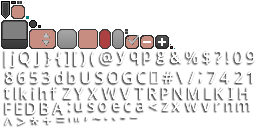
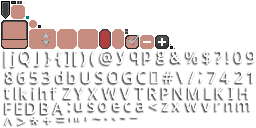
Added some textures, snake nest, minor bug fixes

diff --git a/src/main/java/pl/ue/oops/game/universe/level/LevelGenerator.java b/src/main/java/pl/ue/oops/game/universe/level/LevelGenerator.java
@@ -6,12 +6,12 @@ import pl.ue.oops.game.universe.entities.general.ActiveGridEntity;
 import pl.ue.oops.game.universe.utils.AdjacencyRules;
 import pl.ue.oops.game.universe.utils.GeneratorEntity;
 import pl.ue.oops.game.universe.utils.GridPosition;
+import pl.ue.oops.game.universe.utils.statistics.Statistics;
 
 import java.util.*;
 
 public class LevelGenerator {
     private static List<GeneratorEntity> possibleTerrains = new ArrayList<>();
-    private static List<GeneratorEntity> possibleEnemies = new ArrayList<>();
 
     static {
 //TERRAIN
@@ -36,15 +36,6 @@ public class LevelGenerator {
         possibleTerrains.add(AdjacencyRules.getGeneratorEntity("lake_4_0").setProbability(1));
         possibleTerrains.add(AdjacencyRules.getGeneratorEntity("lake_4_1").setProbability(1));
         possibleTerrains.add(AdjacencyRules.getGeneratorEntity("r").setProbability(10));
-
-
-//ENEMIES
-        possibleEnemies.add(new GeneratorEntity("none").setProbability(100));
-        possibleEnemies.add(new GeneratorEntity("?").setProbability(2));
-        possibleEnemies.add(new GeneratorEntity("s").setProbability(1));
-
-        possibleEnemies.add(new GeneratorEntity("+").setProbability(1));
-        possibleEnemies.add(new GeneratorEntity("*").setProbability(1));
     }
 
     public LevelGenerator(){}
@@ -133,6 +124,13 @@ public class LevelGenerator {
         return null; //we should never get here but if we do we're fucked
     }
 
+    private static <T> T getRandomFromList(List<T> list,Random random){
+        int index = random.nextInt()%list.size();
+        if(index<0)
+            index+= list.size();
+        return list.get(index);
+    }
+
     private static void updateNeighbouringPositions(GridPosition p,GeneratorEntity type, Map<GridPosition,List<GeneratorEntity>> freePositions){
         try{
             List<GeneratorEntity> list = new ArrayList<>();
@@ -172,18 +170,35 @@ public class LevelGenerator {
         }catch(Exception e){};
     }
 
-    public static Map<GridPosition,GeneratorEntity> fillWithEnemies(Map<GridPosition,GeneratorEntity> terrainMap,long seed){
+    public static Map<GridPosition,String> fillWithEnemies(Map<GridPosition,GeneratorEntity> terrainMap,long seed){
         final Random random = new Random(seed);
-        var possibleEntityPositions = getReachableFromStart(terrainMap);
-        Map<GridPosition,GeneratorEntity> enemies = new HashMap<>();
+        List<GridPosition> possibleEntityPositions = new ArrayList<>();
+        Map<GridPosition,String> enemies = new HashMap<>();
 
-        for(var x:possibleEntityPositions){
+        List<String> possibleEnemies = new ArrayList<>();
+        //Here probability means occurences
+        //possibleEnemies.add(new GeneratorEntity("none").setProbability(100));
+        for(int i=0;i<3;i++) {
+            possibleEnemies.add("?");
+        }
+        possibleEnemies.add("s");
+        possibleEnemies.add("nest");
+        possibleEnemies.add("+");
+        possibleEnemies.add("*");
+
+
+        for(var x:getReachableFromStart(terrainMap)){
             if(x.getRow()> Config.ENEMIES_MINIMAL_DISTANCE_TO_PLAYER && x.getColumn()>Config.ENEMIES_MINIMAL_DISTANCE_TO_PLAYER){
-                GeneratorEntity type = getRandomFromPossibleStates(possibleEnemies,random);
-                if(!type.getName().equals("none")){
-                    enemies.put(x,new GeneratorEntity(type));
-                }
+                possibleEntityPositions.add(x);
             }
+        }
+        while(!possibleEntityPositions.isEmpty() && !possibleEnemies.isEmpty()) {
+            var randomEnemy = getRandomFromList(possibleEnemies,random);
+            var randomLegalGridPossition = getRandomFromList(possibleEntityPositions,random);
+            enemies.put(randomLegalGridPossition, randomEnemy);
+            possibleEntityPositions.remove(randomLegalGridPossition);
+            possibleEnemies.remove(randomEnemy);
+            System.err.println(possibleEntityPositions.size());
         }
         return enemies;
     }

diff --git a/src/main/java/pl/ue/oops/game/universe/entities/Player.java b/src/main/java/pl/ue/oops/game/universe/entities/Player.java
@@ -1,5 +1,9 @@
 package pl.ue.oops.game.universe.entities;
 
+import pl.ue.oops.game.animations.controllers.AnimationControllers;
+import pl.ue.oops.game.animations.movements.NoMovement;
+import pl.ue.oops.game.animations.sequences.DelayedSpriteSequence;
+import pl.ue.oops.game.animations.sequences.SimpleSpriteSequence;
 import pl.ue.oops.game.universe.control.Signal;
 import pl.ue.oops.game.universe.entities.general.AbstractActiveGridEntity;
 import pl.ue.oops.game.universe.entities.general.GridEntity;
@@ -19,7 +23,9 @@ public class Player extends AbstractActiveGridEntity {
     private final Statistics statistics = new Statistics();
 
     public Player(int row, int column, Level level) {
-        super(level, row, column, "abstract_eye_square_mouth");
+        super(level, row, column, "eyer_0_0");
+        animationController = AnimationControllers.create(new SimpleSpriteSequence("eyer_move_1","eyer_move_2","eyer_move_1"),new SimpleSpriteSequence("eyer_0_0"));
+        animationController.playIdleAnimation(this.gridPosition);
     }
 
     public void setPlayerInfo(int hp){

diff --git a/src/main/java/pl/ue/oops/game/universe/entities/SnakeNest.java b/src/main/java/pl/ue/oops/game/universe/entities/SnakeNest.java
@@ -1,0 +1,29 @@
+package pl.ue.oops.game.universe.entities;
+
+import pl.ue.oops.game.universe.entities.general.AbstractActiveGridEntity;
+import pl.ue.oops.game.universe.entities.general.GridEntity;
+import pl.ue.oops.game.universe.entities.general.Projectile;
+import pl.ue.oops.game.universe.level.Level;
+
+import java.util.Random;
+
+public class SnakeNest extends AbstractActiveGridEntity {
+    public SnakeNest(int row, int column, Level level) {
+        super(level, row, column, "lake");
+        gridPosition.set(row, column);
+    }
+    @Override
+    public void idleBehaviour() {
+        if(new Random().nextInt()%20==0){
+            level.requestSpawn(new Clueless(this.gridPosition.getRow(),this.gridPosition.getColumn(),level));
+        }
+    }
+
+    @Override
+    public void interact(GridEntity other) {
+        if(other.getClass().equals(Player.class)){
+            level.hud.updateScore();
+            disable();
+        }
+    }
+}

diff --git a/src/main/java/pl/ue/oops/game/universe/level/LevelLoader.java b/src/main/java/pl/ue/oops/game/universe/level/LevelLoader.java
@@ -90,13 +90,14 @@ public class LevelLoader {
         enemies.remove(new GridPosition(rowCount-1,collumnCount-1));
         for (var x:enemies.keySet()) {
             final int row = x.getRow(), column = x.getColumn();
-            final var symbol = enemies.get(x).getName();
+            final var symbol = enemies.get(x);
             System.out.println(symbol);
             switch(symbol) {
                 case "?" -> level.requestSpawn(new Clueless(row, column, level));
                 case "+" -> level.requestSpawn(new MedKit(row, column, level));
                 case "*" -> level.requestSpawn(new Mag(row, column, level));
                 case "s" -> level.requestSpawn(new Shooter(row,column,level));
+                case "nest" -> level.requestSpawn(new SnakeNest(row,column,level));
             }
         }
 

diff --git a/src/main/java/pl/ue/oops/game/scenes/Hud.java b/src/main/java/pl/ue/oops/game/scenes/Hud.java
@@ -30,8 +30,8 @@ public class Hud implements Disposable {
         viewport = new FitViewport(Config.NATIVE_WIDTH,Config.NATIVE_HEIGHT,new OrthographicCamera());
         stage = new Stage(viewport,spriteBatch);
         score = 0;
-        scoreLabel = new Label(String.format("%03d",score),Config.DEFAULT_UI_SKIN);
-        scoreNameLabel = new Label(String.format("SCORE"),Config.DEFAULT_UI_SKIN);
+        scoreLabel = new Label(String.format("%03d",score),Config.DEFAULT_LABEL_STYLE);
+        scoreNameLabel = new Label(String.format("SCORE"),Config.DEFAULT_LABEL_STYLE);
         turn = 0;
         turnLabel = new Label(String.format("%03d",turn),Config.DEFAULT_LABEL_STYLE);
         turnNameLabel = new Label(String.format("TURN"),Config.DEFAULT_LABEL_STYLE);

diff --git a/src/main/java/pl/ue/oops/game/universe/level/AIHandler.java b/src/main/java/pl/ue/oops/game/universe/level/AIHandler.java
@@ -23,7 +23,7 @@ public class AIHandler {
         catch(Exception e){
             System.out.println("sraka" + e);
         }
-        for(final var entity :level.activeEntities) //some decision-making and forcing objects to take turns(with some suggestions in Signals
+        for(final var entity :level.getListOfActiveEntities()) //some decision-making and forcing objects to take turns(with some suggestions in Signals
         {
             entity.takeTurn(pathfinder.possible.get(entity));
         }
@@ -45,6 +45,6 @@ public class AIHandler {
     }
 
     public boolean allEnemiesDead(){
-        return level.activeEntities.size()==1;
+        return level.getListOfActiveEntities().size()==1;
     }
 }

diff --git a/src/main/java/pl/ue/oops/game/universe/level/MoveHandler.java b/src/main/java/pl/ue/oops/game/universe/level/MoveHandler.java
@@ -19,7 +19,7 @@ public class MoveHandler {
         if(isMovePossible(entity,rowDelta,columnDelta)){
             final var destination = entity.getPosition().shifted(rowDelta, columnDelta);
             if(!(entity instanceof Projectile)) {
-                entity.getAnimationController().playMoveAnimation(entity.getPosition(), destination, 0.1f);
+                entity.getAnimationController().playMoveAnimation(entity.getPosition(), destination, 0.2f);
             }
             entity.getPosition().setPrev(entity.getPosition().getRow(),entity.getPosition().getColumn());
             entity.getPosition().set(destination);

diff --git a/src/main/java/pl/ue/oops/game/universe/level/Level.java b/src/main/java/pl/ue/oops/game/universe/level/Level.java
@@ -174,4 +174,8 @@ public class Level {
         nextLevel.substitutePlayer(player.moveToLevel(nextLevel));
         return nextLevel;
     }
+
+    public List<ActiveGridEntity> getListOfActiveEntities() {
+        return new ArrayList<>(activeEntities);
+    }
 }
